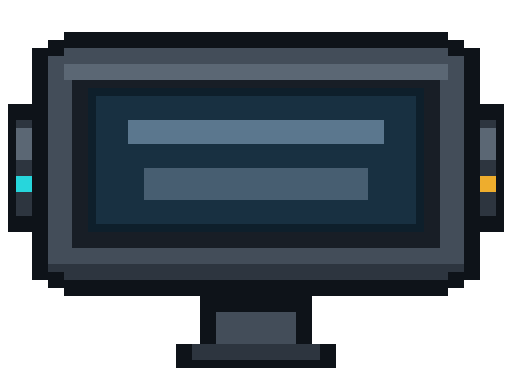
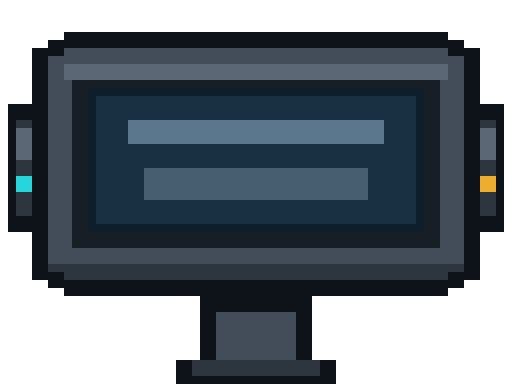
중간 표지판의 발판 접점을 저작 좌표로 통일한다
바닥형과 벽 부착형이 같은 center 기준을 공유해 일부 pedestal이 발판 안으로 내려갔다. 36개 story-display를 전수 감사해 바닥형 19개는 surface top과 bottom-center를 공유하고 벽 rail 17개는 center를 유지했다. 64×48 PNG의 발도 마지막 불투명 행까지 연장해 캔버스 하단과 접점을 일치시켰다.

Related: #995

Confidence: high

Scope-risk: moderate

Constraint: Story cue, interaction, collision, surface geometry는 변경하지 않는다.

Rejected: renderer가 Stage별 오프셋이나 주변 surface를 추론해 보정하는 방식은 Map Editor 단일 권위를 깨므로 사용하지 않았다.

Tested: validateAreaSpecs, generated catalog check, production map parity, scenario integration checkpoint, 19/19 pedestal surface-top audit, 64×48 RGBA·alpha·SHA 확인, Stage 3-4 desktop 및 390×844 mobile 브라우저 검수

Not-tested: 36개 표지판 전체를 실제 traversal로 각각 육안 확인하지는 않았다.

Changed region(s): [[0.3438, 0.875, 0.6562, 1.0]]

diff --git a/docs/scenario-development-integration.md b/docs/scenario-development-integration.md
@@ -3,8 +3,8 @@
 이 문서는 [`bsh/scenario/`](./bsh/scenario/)의 기획과 현재 Runtime 연결 상태만 소유한다. 대체된 구현 chronology는 Git 이력과 [`decision-history.md`](./decision-history.md)가 소유하며 현재 계약과 함께 나열하지 않는다.
 
 <!-- scenario-integration-checkpoint:v1
-scenario-source-sha256: c3f88c3fc3e3de132e0ce82e2dc56bcae4483fdd36136151275359b74fab3f7c
-authored-area-sha256: 9522bc1a1c5951580f1d31dfa546f641dd98cf3408f5182062ec91ac4eee358a
+scenario-source-sha256: 7bf32b205c46ab69900b3169172498486d19856a5300b5ca4c94e695d9844619
+authored-area-sha256: 2fb88ad63249b6e2c92e3eb7e17f9667088b48eba1a2c5230802175a4877e928
 authored-sector-sha256: ad0424499e2d11575db20f4ec5d995488348e94fe68fdb0bf078965aeea11974
 stage-count: 48
 stage-coverage: 1-1,1-2,1-3,1-4,1-5,1-6,1-7,1-8,2-1,2-2,2-3,2-4,2-5,2-6,2-7,2-8,3-1,3-2,3-3,3-4,3-5,3-6,3-7,3-8,4-1,4-2,4-3,4-4,4-5,4-6,4-7,4-8,5-1,5-2,5-3,5-4,5-5,5-6,5-7,5-8,6-1,6-2,6-3,6-4,6-5,6-6,6-7,6-8
@@ -30,6 +30,7 @@ reviewed-upstream: 829d3fe3b7d6dc4fd3cd5fb95690ad4f210afaee
 
 ## 최근 반영된 시나리오 변화
 
+- Sector 02·03·05의 `story-display` 36개를 발판 pedestal 19개와 벽 rail 17개로 구분했다. 기존에 발판 근처에서 `center` 또는 어긋난 Y를 쓰던 17개를 `bottom-center`와 해당 surface top Y로 맞췄고, 이미 정확했던 2개는 유지했다. Story cue·상호작용·collision·surface geometry는 변경하지 않았다.
 - 전수 공간 감사에서 발견한 2-8의 Final Control 이중 발판을 Editor 소유 `exit-deck` 하나로 정리하고, 5-1 인접 Entry Deck의 1px 내부 겹침을 맞닿는 경계로 보정했다. Anchor의 collision 부착 target이 발판에 물리는 구조는 Rope capability 계약을 유지하므로 변경하지 않았다.
 - Map Editor에서 저장한 Sector 06의 6-1~6-8 canonical 지형·Anchor·월드 오브젝트·Wind·Camera 배치를 generated Stage 모듈에 함께 반영했다. 일반 Stage는 catalog의 선택 경로가 없어도 stable Stage ID로 `MAP-PREVIEW.html`을 찾아 시나리오 비교 화면을 제공하며, Boss Stage만 이 비교 대상에서 제외한다. 실제 전체 traversal과 Boss06·멀티플레이 체감은 별도 검증 범위다.
 - Map Editor에서 저장한 Sector 04·05의 4-1~4-8, 5-1~5-8 canonical 지형·Anchor·월드 오브젝트·Wind·Camera 배치를 generated Stage 모듈에 함께 반영했다. 4-8 Quorum 진행 게이트는 목표 완료 전후에만 전환되며, 적 슬롯을 움직이면 legacy activation bounds도 같은 delta로 이동해 드론 위치와 공격·활성 범위 표시가 분리되지 않는다.

diff --git a/assets/artwork/objects/story-display-universal/README.md b/assets/artwork/objects/story-display-universal/README.md
@@ -15,7 +15,7 @@
 - 36개 `story-display`의 공지·경로·보안·기록 의미는 Runtime presentation이 소유한다.
 - 실제 논리 제작 크기는 `64×48 RGBA`이며 반투명 픽셀 없이 정수 픽셀 경계를 사용한다.
 - 내부 디테일은 외곽 프레임·화면·두 정보 블록·양쪽 상태등·하부 bracket으로 제한한다.
-- 벽 rail과 바닥 pedestal 어느 쪽에도 결합 가능한 중립 하부 bracket을 가진다.
+- 벽 rail과 바닥 pedestal 어느 쪽에도 결합 가능한 중립 하부 bracket을 가지며, 바닥형은 발의 마지막 불투명 행을 `bottom-center` 접점으로 사용한다.
 - 정적 오브젝트 한 상태만 제공하며 화면의 의미별 내용은 별도 Runtime overlay가 소유한다.
 - Sector 01~06은 공용 `world-object:story-display` presentation ID를 통해 같은 외형을 사용한다.
 
@@ -42,7 +42,7 @@
 ## 검증 상태
 
 - export 크기 `64×48`, RGBA, alpha 값 `0/255`만 사용, 반투명 픽셀 `0`개 확인 완료
-- 비투명 경계 `(1, 4)~(62, 45)`, 불투명 팔레트 `11`색 확인 완료
+- 비투명 경계 `(1, 4)~(62, 47)`, 불투명 팔레트 `11`색 확인 완료
 - 실제 `1×`와 최근접 보간 `8×`에서 정면 실루엣·무문자 화면·제한 팔레트 육안 확인 완료
 - 이 저장소에는 일반 world-object 전용 Runtime asset contract·validator가 없어 Runtime 검증은 미수행
 - Stage 3-4에서 실제 데스크톱 `1280×720`·모바일 `390×844` sprite 배치와 강제 로드 실패 fallback 검수 완료
@@ -51,12 +51,12 @@
 
 - 승격 경로: `assets/runtime/objects/story-display-universal/story-display.png`
 - 로더 경계: `RuntimeAssetCatalog`와 `WorldObjectSpriteAssetCatalog`
-- 좌표 기준점: 각 authored object의 기존 `coordinateAnchor`를 유지한다.
+- 좌표 기준점: 발판 위 pedestal 배치는 `bottom-center`, 벽 rail 배치는 `center`를 사용한다. 바닥형 position Y는 발판의 `top-center` Y와 같아야 한다.
 - 로드 실패: `AuthoredWorldObjectRenderer`의 기존 mock 패널로 독립 fallback한다.
 - PNG 교체로 collision·interaction·story cue·network 상태를 변경하지 않는다.
 
 ## 비범위
 
 - `story-display`별 문구·아이콘·상태 animation 제작
-- authored `story-display`의 좌표·anchor·문구·cue 변경
+- authored `story-display`의 문구·cue 변경
 - collision·interaction·network 변경
